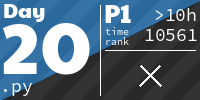
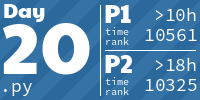
Day 20 Part 2

diff --git a/2023/Day 20/sol.py b/2023/Day 20/sol.py
@@ -1,8 +1,11 @@
 from sys import stdin
 from queue import Queue
+import math
 
 counthigh = countlow = 0
 q = Queue()
+andrxparent = ""
+cyclecount = 0
 
 class Device:
     def __init__(self, type, is_on=False, inputs=None, outputs=[]):
@@ -12,9 +15,13 @@ class Device:
         self.outputs = outputs
     
     def handleinput(self, origin, signal):
-        global countlow, counthigh, q
+        global countlow, counthigh, q, andrxparent, rxcycle, graph, cyclecount
         #print("handle:",self.type,origin, signal)
         self.inputs[origin] = signal
+        if self.type == "&"+andrxparent:
+            for i, good in enumerate(graph[andrxparent].inputs.values()):
+                if good:
+                    rxcycle[i] = cyclecount
         countlow += (1-signal)
         counthigh += signal
         if self.type[0] == '&':
@@ -36,7 +43,7 @@ class Device:
         if self.type[0] == 'b':
             for o in self.outputs:
                 q.put((self.type,o,signal))
-
+        
 lines = [i.strip() for i in stdin.read().splitlines()]
 graph = {}
 for line in lines:
@@ -44,6 +51,8 @@ for line in lines:
     name2 = ''.join(name)
     if name[0] in ['&','%']:
         name2 = name[1:]
+    if name[0] == '&' and "rx" in outputs:
+        andrxparent = name2
     graph[name2] = Device(name, False, {}, [x for x in outputs.split(', ')])
 for line in lines:
     name, outputs = line.split(' -> ')
@@ -55,11 +64,15 @@ for line in lines:
             graph[x2] = Device("-"+x, False, {}, [])
         graph[x].inputs[name] = 0
 graph['broadcaster'].inputs['b'] = 0
-solution2 = 0
-for _ in range(1000):
+rxcycle = [False] * len(graph[andrxparent].inputs)
+for i in range(10001):
+    cyclecount = i+1
     q.put(('b','broadcaster',0))
     while q.qsize():
         nextp = q.get()
         graph[nextp[1]].handleinput(nextp[0],nextp[2])
-print("Part 1:",countlow*counthigh)
-# 238815727638557
+    if i == 999:
+        print("Part 1:",countlow*counthigh)
+    if all(rxcycle):
+        print("Part 2:", math.prod(rxcycle))
+        break

diff --git a/README.md b/README.md
@@ -10,7 +10,7 @@ The graphic below has been created with [aoc-tiles](.pre-commit-config.yaml) scr
 
 <!-- AOC TILES BEGIN -->
 <h1 align="center">
-  2023 - 37 ⭐
+  2023 - 38 ⭐
 </h1>
 <a href="2023/Day 1/sol.py">
   <img src=".aoc_tiles/tiles/2023/01.png" width="161px">
